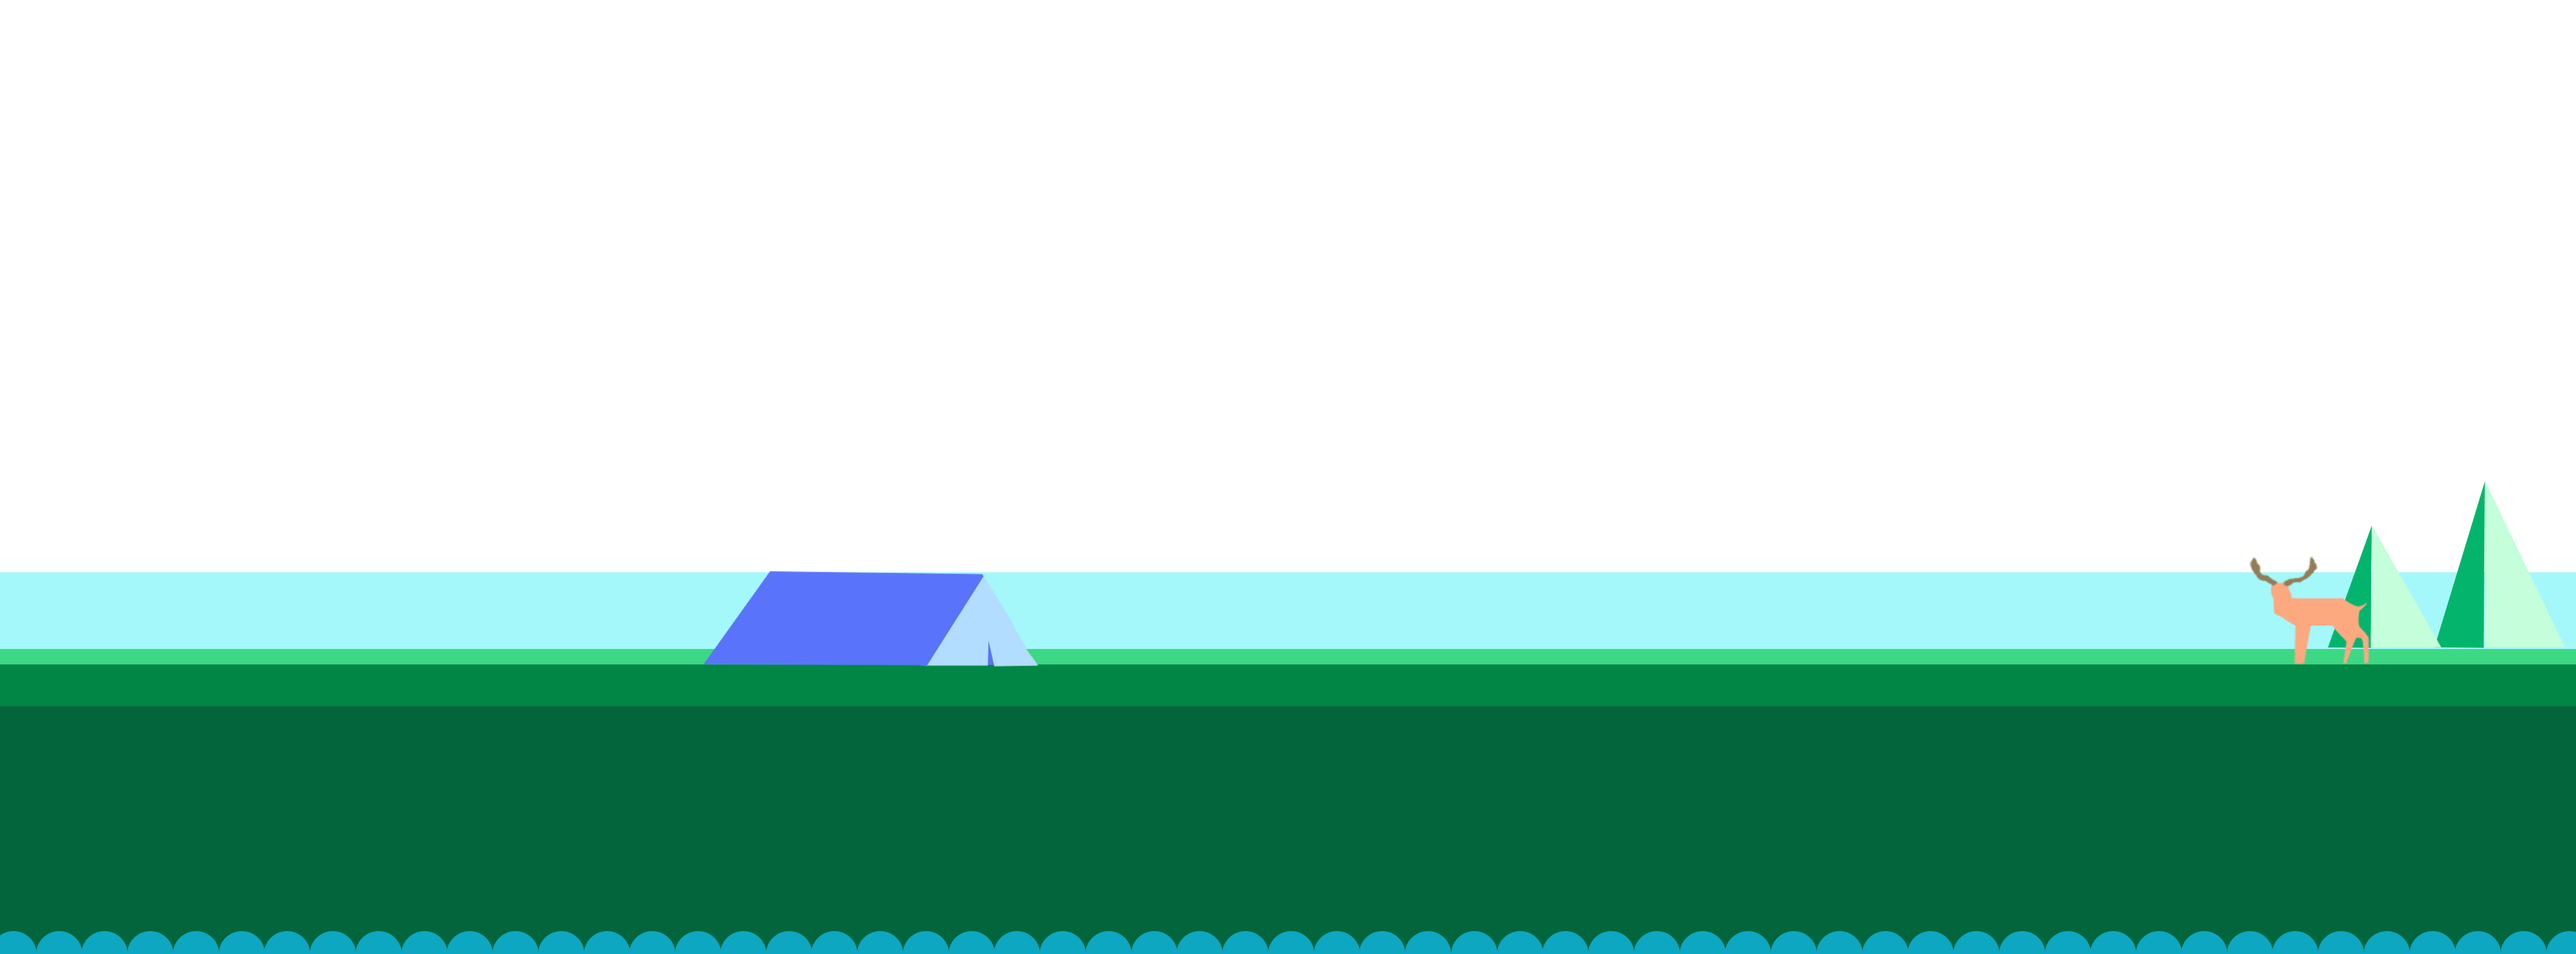
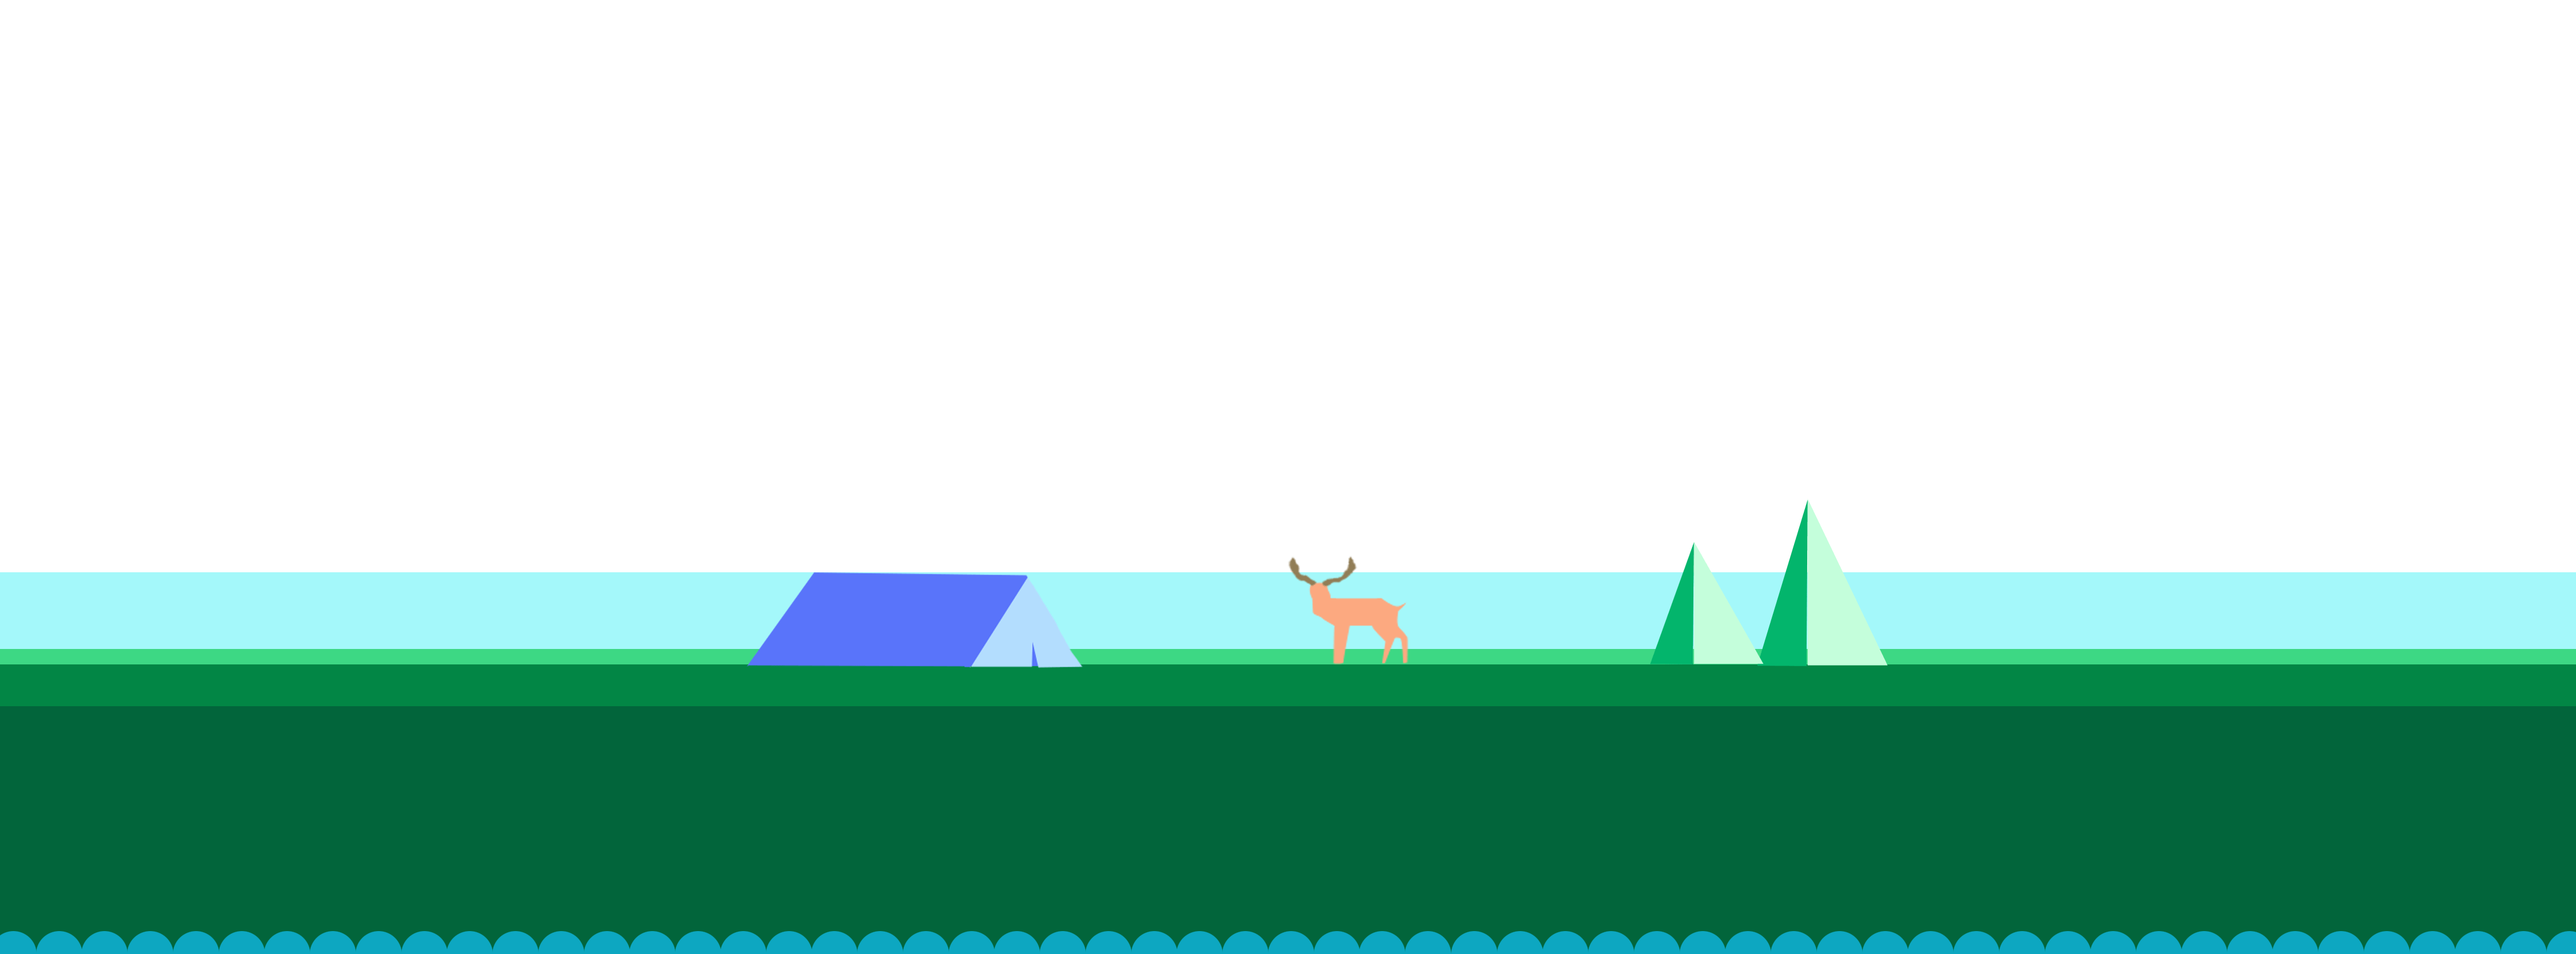
resume

diff --git a/index.html b/index.html
@@ -118,7 +118,9 @@
             	描述：背景
             -->
             <div class="fullpage overflowhidden absolute">
-				<div class="star_planet fullpage" data-4900="transform:translate3d(0,0,0)" data-6300="transform:translate3d(0,-89px,0)"></div>
+				<div class="star_planet fullpage" data-4900="transform:translate3d(0,0,0)" >
+					<img src="img/phone_planet.jpg" alt=""  class="background_img"/>	
+				</div>
 			</div>
 			<!--            	
             	描述：星球
@@ -131,7 +133,9 @@
 				<!--                
                 	描述：飞船
                 -->
-				<div class="spaceship absolute" data-3570="transform:scale(0) rotate(0deg)" data-3700="bottom:10%;transform:scale(1) rotate(1440deg)" data-6100="bottom:100%"></div>
+                <div class="fullpage" data-3570="transform:scale(0) translate3d(0,0%,0)" data-3700="transform:scale(1) translate3d(0,0%,0)" data-6100="transform:scale(1) translate3d(0,-100%,0)">
+					<div class="spaceship absolute" ></div>
+				</div>
 				<!--                	
                 	描述：hello world
                 -->
@@ -182,7 +186,7 @@
 		<!--
         	描述：场景2
         -->
-		<section class="scence2 fullpage" data-6100="transform:translate3d(0,100%,0)" data-9100="transform:translate3d(0,0%,0);" data-26000="transform:translate3d(0%,0%,0)"  data-30000="transform:translate3d(0%,-98%,0)">
+		<section class="scence2 fullpage" data-6100="transform:translate3d(0,100%,0)" data-9100="transform:translate3d(0,0%,0);" data-26000="transform:translate3d(0%,0%,0)"  data-30000="transform:translate3d(0%,-100%,0)">
 
 			<!--        	
         	描述：西瓜
@@ -215,11 +219,15 @@
 			<!--            	
             	描述：背景
             -->
-            <div class="fullpage absolute">
-				<div class="hill-3 hill fullpage" data-9100="background-position-x:0%" data-17000="background-position-x:50%"></div>
-				<div class="hill-2 hill fullpage" data-9100="background-position-x:0%" data-17000="background-position-x:57%"></div>
+            <div class="fullpage absolute overflowhidden">
+			
+				<div class="hill-2 hill fullpage" data-9100="transform:translate3d(0px,0,0)">
+					<img src="img/scene2_2.jpg"  class="background_img"/>
+				</div>
 				
-				<div class="hill-1 hill fullpage" data-9100="background-position-x:0%" data-17000="background-position-x:100%"></div>
+				<div class="hill-1 hill fullpage" data-9100="transform:translate3d(0px,0,0)">
+					<img src="img/scene2_1.png"  class="background_img"/>
+				</div>
 			</div>
 			<!--
 	                        描述：场景2信息
@@ -265,7 +273,12 @@
 			<!--            	
             	描述：场景3背景
             -->
-			<div class="fullpage scence3_bg" data-31000="background-position-x:0%" data-45000="background-position-x:100%"></div>
+            <div class="fullpage overflowhidden absolute">
+				<div class="scence3_bg fullpage" data-31000="transform:translate3d(0px,0,0)" >
+					<img src="img/flat-mountains.jpg" alt=""  class="background_img"/>	
+				</div>
+			</div>
+			<!--<div class="fullpage scence3_bg" data-31000="background-position-x:0%" data-45000="background-position-x:100%"></div>-->
 			
 			<!--            	
             	描述：飞机
@@ -288,7 +301,12 @@
 			<!--            	
             	描述：场景4背景
             -->
-			<div class="fullpage scence4_bg" data-66000="background-position-x:0%" data-71000="background-position-x:100%"></div>
+            <div class="fullpage overflowhidden absolute">
+				<div class="scence4_bg fullpage" data-66000="transform:translate3d(0px,0,0)" >
+					<img src="img/scence4_bg.jpg" alt=""  class="background_img"/>	
+				</div>
+			</div>
+			<!--<div class="fullpage scence4_bg" data-66000="background-position-x:0%" data-71000="background-position-x:100%"></div>-->
 			<!--            	            	
             	描述：lemon            	
             -->
@@ -322,6 +340,7 @@
 		<script type="text/javascript" src="js/animation.js" ></script>
 		<script type="text/javascript" src="js/interact.js" ></script>
 		<script type="text/javascript" src="js/circle_progress.js" ></script>
+		<script type="text/javascript" src="js/background.js" ></script>
 		<script>
 			 $.plug.spaceship({
 			 	container:document.querySelector('.spaceship'),
@@ -332,9 +351,22 @@
 			 	
 			 	$.plug.ratio(false,4500,1667,".hill-1");
 			 	$.plug.ratio(false,4500,1667,".hill-2");
-			 	$.plug.ratio(false,4500,1667,".hill-3");
-			 	$.plug.ratio(false,3840,2160,".scence3_bg",1.3)
+			 	$.plug.ratio(false,3840,2160,".scence3_bg")
 			 	$.plug.ratio(false,2560,1496,".scence4_bg");
+			 	//mobile
+			 	$.plug.ratio(true,1080,1920,".star_planet")
+			 	
+			 	
+			 	
+			 	//背景偏移生成，动态得到大图片偏移
+			 	$.plug.background(true,".star_planet",6700);
+			 	$.plug.background(false,".hill-1",17000);
+			 	$.plug.background(false,".hill-2",20000);
+				$.plug.background(false,".scence3_bg",45000);
+			 	$.plug.background(false,".scence4_bg",71000);
+			 	
+			 	
+			 	//
 			 	var hided_element=['.star_container','.hello_world'];
 			 	
 			 	
@@ -418,7 +450,7 @@
 			});
 			 console.log(s.isMobile());
 			 if(s.isMobile()){
-			 	$.plug.ratio(true,1080,1920,".star_planet")
+			 
 //			 	$.plug.star({
 //			 		container:document.querySelector('.star_container'),
 //					bigstar:{

diff --git a/css/main.css b/css/main.css
@@ -106,10 +106,18 @@ z-index: 1 !important;
 	bottom:0;
 	left: 30%;
 }
-.star_planet{
-	background: url(../img/phone_planet.jpg) no-repeat 0 0;
-	background-position: 0px 0px;
-	 
+ 
+.background_img{
+	 min-height: 100%;
+ min-width: 100%;
+ height: 100%;
+ width: 100%;
+ max-height: 100%;
+ max-width: 100%;
+ display: block;
+ position: absolute;
+ top: 0;
+ left: 0;
 }
 @media only screen and (min-width: 768px) {
 	.star_planet{
@@ -360,16 +368,13 @@ animation-direction:alternate;
 	
 }
 .hill-1{
-	background: url(../img/scene2_1.png) no-repeat 0 0;
-	bottom: 0;
+	 
 }
 .hill-2{
-	background: url(../img/scene2_2.png) no-repeat 0 0;
-	bottom: 0;
+	 
 }
 .hill-3{
-	background: url(../img/scene2_3.png) no-repeat 0 0;
-	bottom: 0;
+ 
 }
 .HTMLinfo{
 	text-align: center;
@@ -670,7 +675,7 @@ animation-direction:alternate;
 	z-index: -1 !important;
 }
 .scence3_bg{
-background: url(../img/flat-mountains.jpg) no-repeat 0 0;	
+ 
 }
 .scence3 .plane{
  	display: block;
@@ -690,7 +695,7 @@ background: url(../img/flat-mountains.jpg) no-repeat 0 0;
 
 /*场景4*/
 .scence4_bg{
-	background: url(../img/scence4_bg.jpg) no-repeat 0 0;
+	 
 }
 .lemon{
 	bottom: 15% !important;

diff --git a/js/background.js b/js/background.js
@@ -1,0 +1,23 @@
+(function($){
+		function background(isheight,dom,number){
+				if(isheight){
+					//translate3d(0,0,0)
+					var num=-($(dom).height()-window.innerHeight);
+					if(num>0)return;
+				 	$(dom).get(0).dataset[number+""]="transform:translate3d(0,"+num+"px,0)";
+				 	//$(dom).get(0).dataset[number+""]="-webkit-transform:translate3d(0,"+num+"px,0)";
+				}
+				else{
+					var num=-($(dom).width()-window.innerWidth);
+					if(num>0)return;
+					$(dom).get(0).dataset[number+""]="transform:translate3d("+num+"px,0,0)";
+				 	//$(dom).get(0).dataset[number+""]="-webkit-transform:translate3d("+num+"px,0,0)";
+				}
+					
+				
+				//$(dom)
+			}		
+			if(!$.plug)$.plug={};
+			$.plug.background=background;
+	
+})($)

diff --git a/js/ratio.js b/js/ratio.js
@@ -8,7 +8,7 @@
   			var wi=window.innerWidth*ratioo;
   			var _pxheight=Math.round(wi/ratio)+"px";
   		//	if(isback)
-	  			document.querySelector(dom).style.backgroundSize=wi+"px "+_pxheight
+	  			//document.querySelector(dom).style.backgroundSize=wi+"px "+_pxheight
   		//	else
   				document.querySelector(dom).style.height=_pxheight;
   		}
@@ -16,7 +16,7 @@
   			var he=window.innerHeight*ratioo;
   			var _pxwidth=Math.round(he*ratio)+"px";	
   		//	if(isback)
-  				document.querySelector(dom).style.backgroundSize=_pxwidth+" "+he+"px";
+  				//document.querySelector(dom).style.backgroundSize=_pxwidth+" "+he+"px";
 		//	else
 				document.querySelector(dom).style.width=_pxwidth;
   		}		
